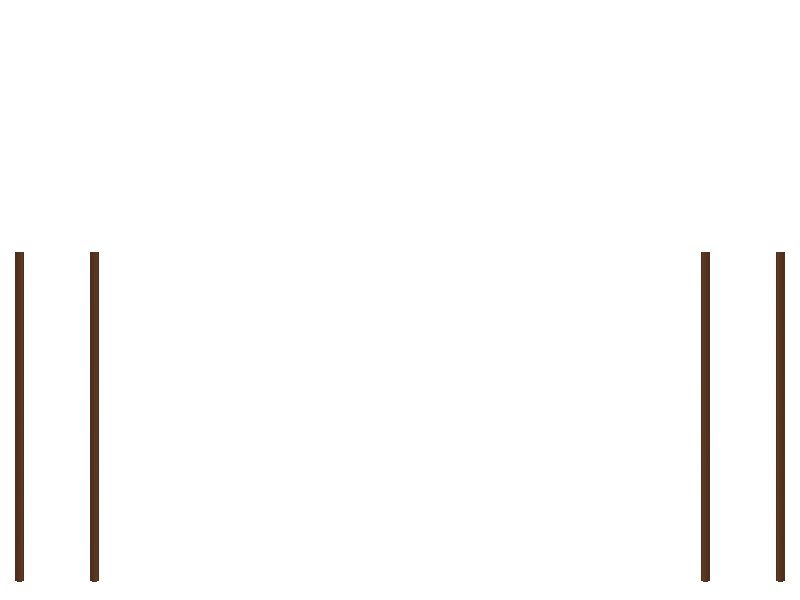
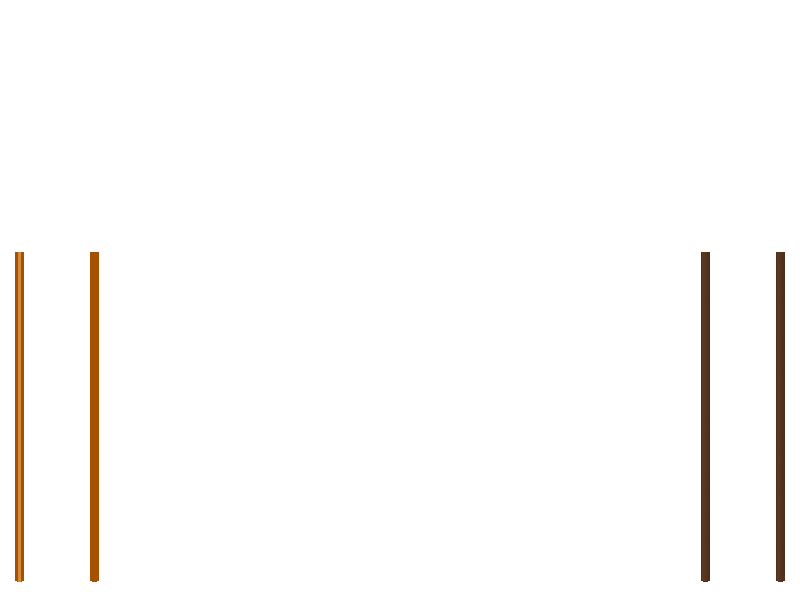
Updated fish and dock graphics to be in color palette.
Fish: Updated path to new graphic
MainGameScene: Updated path to new scene and dock supports graphics

svn path=/trunk/; revision=77

Changed region(s): [[0.0938, 0.42, 0.125, 0.99], [0.0, 0.42, 0.0312, 0.99]]

diff --git a/Source/MainGameScene.cpp b/Source/MainGameScene.cpp
@@ -55,14 +55,14 @@ const Point &MainGameScene::DOCK_SUPPORTS_POINT()
 
 const std::string &MainGameScene::BACKGROUND_PATH()
 {
-    static std::string TMP_BACKGROUND_PATH = "../Media/Scene4.png";
+    static std::string TMP_BACKGROUND_PATH = "../Media/Scene5.png";
     return TMP_BACKGROUND_PATH;
 }
 
 const std::string &MainGameScene::DOCK_SUPPORTS_PATH()
 {
     static const std::string TMP_DOCK_SUPPORTS_PATH = 
-        "../Media/DockSupports.png";
+        "../Media/DockSupports2.png";
     return TMP_DOCK_SUPPORTS_PATH;
 }
 
@@ -171,8 +171,8 @@ void MainGameScene::enter()
     boost::weak_ptr<Collidable> playerCollidable(player1);
     ocean->addCollidable(playerCollidable);
     player1->loadImage(*renderer);
-    renderer->loadImage("../Media/Scene4.png");
-    renderer->loadImage("../Media/DockSupports.png");
+    renderer->loadImage("../Media/Scene5.png");
+    renderer->loadImage("../Media/DockSupports2.png");
     renderer->loadText("Ready", COLOR, BORDER_SIZE);
     renderer->loadText("Go", COLOR, BORDER_SIZE);
     game->loadImage(*renderer);

diff --git a/Source/Fish.cpp b/Source/Fish.cpp
@@ -22,7 +22,7 @@
 //Class-wide constants
 const std::string &Fish::IMAGE_PATH()
 {
-    static const std::string TMP_IMAGE_PATH = "../Media/Fish.png"; // changed back to "../Media"
+    static const std::string TMP_IMAGE_PATH = "../Media/Fish4.png"; // changed back to "../Media"
     return TMP_IMAGE_PATH;
 }
 
